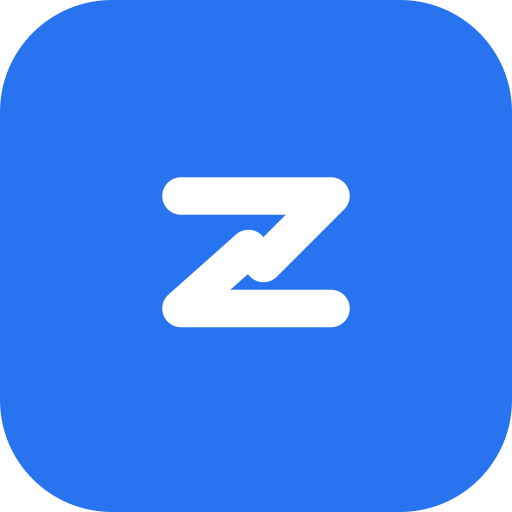
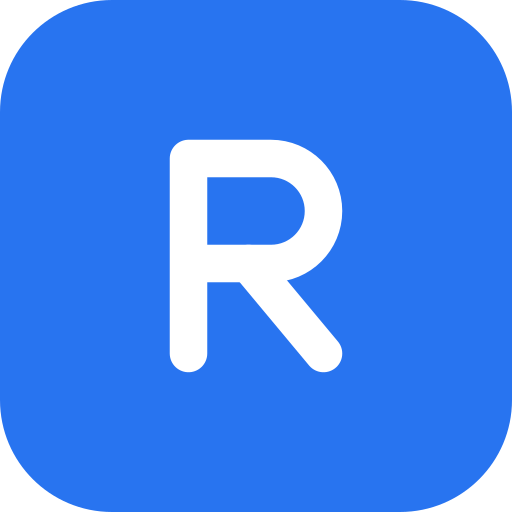
Rebrand store from PhoneZlab to Rushovis

Changed region(s): [[0.3125, 0.25, 0.6875, 0.75]]

diff --git a/src/utils/seo.ts b/src/utils/seo.ts
@@ -17,7 +17,7 @@ export function getSiteUrl(): string {
     return `https://${shopifyDomain}`;
   }
   
-  return 'https://phonezlab.com';
+  return 'https://rushovis.com';
 }
 
 interface MetadataOptions {
@@ -37,10 +37,10 @@ interface MetadataOptions {
 export function generatePageMetadata(options: MetadataOptions): Metadata {
   const siteUrl = getSiteUrl();
   const absoluteUrl = `${siteUrl}${options.canonicalPath}`;
-  const defaultTitle = "PhoneZlab | Luxury Accessories";
+  const defaultTitle = "Rushovis | Luxury Accessories";
   const defaultDescription = "Premium luxury accessories and cases for the modern elite.";
   
-  const title = options.title ? `${options.title} | PhoneZlab` : defaultTitle;
+  const title = options.title ? `${options.title} | Rushovis` : defaultTitle;
   const description = options.description || defaultDescription;
   
   const meta: Metadata = {
@@ -52,7 +52,7 @@ export function generatePageMetadata(options: MetadataOptions): Metadata {
       "iphone accessories",
       "luxury phone covers",
       "premium phone skins",
-      "phonezlab"
+      "rushovis"
     ],
     alternates: {
       canonical: absoluteUrl,
@@ -63,7 +63,7 @@ export function generatePageMetadata(options: MetadataOptions): Metadata {
       description,
       url: absoluteUrl,
       type: (options.ogType === 'article' ? 'article' : 'website'),
-      siteName: 'PhoneZlab',
+      siteName: 'Rushovis',
       images: options.imageUrl 
         ? [
             {
@@ -76,7 +76,7 @@ export function generatePageMetadata(options: MetadataOptions): Metadata {
         : [
             {
               url: `${siteUrl}/og-image.png`,
-              alt: 'PhoneZlab Luxury Accessories',
+              alt: 'Rushovis Luxury Accessories',
               width: 1200,
               height: 630,
             }
@@ -102,17 +102,17 @@ export function getOrganizationSchema() {
     "@context": "https://schema.org",
     "@type": "Organization",
     "@id": `${siteUrl}/#organization`,
-    "name": "PhoneZlab",
+    "name": "Rushovis",
     "url": siteUrl,
     "logo": {
       "@type": "ImageObject",
       "url": `${siteUrl}/logo.png`,
-      "caption": "PhoneZlab Logo"
+      "caption": "Rushovis Logo"
     },
     "sameAs": [
-      "https://facebook.com/phonezlab",
-      "https://instagram.com/phonezlab",
-      "https://twitter.com/phonezlab"
+      "https://facebook.com/rushovis",
+      "https://instagram.com/rushovis",
+      "https://twitter.com/rushovis"
     ]
   };
 }
@@ -127,7 +127,7 @@ export function getWebsiteSchema() {
     "@type": "WebSite",
     "@id": `${siteUrl}/#website`,
     "url": siteUrl,
-    "name": "PhoneZlab",
+    "name": "Rushovis",
     "publisher": {
       "@id": `${siteUrl}/#organization`
     },
@@ -173,7 +173,7 @@ export function getProductSchema(product: ShopifyProduct, reviewsData?: JudgemeR
   const variants = product.variants?.edges?.map(edge => edge.node) || [];
   const mainVariant = variants.find(v => v.availableForSale) || variants[0];
   const images = product.images?.edges?.map(edge => edge.node.url) || [];
-  const brandName = product.vendor || 'PhoneZlab';
+  const brandName = product.vendor || 'Rushovis';
 
   const lowPrice = variants.length > 0 
     ? Math.min(...variants.map(v => parseFloat(v.price.amount) || 0)) 
@@ -187,7 +187,7 @@ export function getProductSchema(product: ShopifyProduct, reviewsData?: JudgemeR
     "@type": "Product",
     "@id": `${siteUrl}/products/${product.handle}#product`,
     "name": product.title,
-    "description": product.description || `Buy ${product.title} from PhoneZlab.`,
+    "description": product.description || `Buy ${product.title} from Rushovis.`,
     "image": images.length > 0 ? images : [product.featuredImage?.url || `${siteUrl}/og-image.png`],
     "sku": mainVariant?.sku || product.id,
     "brand": {

diff --git a/src/components/ProductDetailsClient.tsx b/src/components/ProductDetailsClient.tsx
@@ -343,7 +343,7 @@ export function ProductDetailsClient({ product, relatedProducts = [], initialRev
                         
                         {/* WhatsApp Share */}
                         <a
-                          href={`https://api.whatsapp.com/send?text=${encodeURIComponent(`Check out this ${product.title} on PhoneZlab: ` + (typeof window !== "undefined" ? window.location.href : ""))}`}
+                          href={`https://api.whatsapp.com/send?text=${encodeURIComponent(`Check out this ${product.title} on Rushovis: ` + (typeof window !== "undefined" ? window.location.href : ""))}`}
                           target="_blank"
                           rel="noopener noreferrer"
                           onClick={() => setShareOpen(false)}
@@ -357,7 +357,7 @@ export function ProductDetailsClient({ product, relatedProducts = [], initialRev
                         
                         {/* Twitter / X Share */}
                         <a
-                          href={`https://twitter.com/intent/tweet?text=${encodeURIComponent(`Check out this ${product.title} on PhoneZlab!`)}&url=${encodeURIComponent(typeof window !== "undefined" ? window.location.href : "")}`}
+                          href={`https://twitter.com/intent/tweet?text=${encodeURIComponent(`Check out this ${product.title} on Rushovis!`)}&url=${encodeURIComponent(typeof window !== "undefined" ? window.location.href : "")}`}
                           target="_blank"
                           rel="noopener noreferrer"
                           onClick={() => setShareOpen(false)}
@@ -448,7 +448,7 @@ export function ProductDetailsClient({ product, relatedProducts = [], initialRev
             {/* Title / Header */}
             <div>
               <span className="text-[#878787] text-xs font-semibold uppercase tracking-wider">
-                {product.vendor || "PhoneZlab"}{product.productType ? ` • ${product.productType}` : ""}
+                {product.vendor || "Rushovis"}{product.productType ? ` • ${product.productType}` : ""}
               </span>
               <h1 className="text-xl md:text-2xl font-medium text-gray-900 mt-1 leading-snug">
                 {product.title}

diff --git a/src/app/login/page.tsx b/src/app/login/page.tsx
@@ -42,10 +42,10 @@ export default function LoginPage() {
     <main className="min-h-[85vh] bg-[#f1f3f6] flex items-center justify-center p-4 md:p-8 relative">
       <div className="bg-white rounded-lg shadow-lg overflow-hidden w-full max-w-4xl flex flex-col md:flex-row min-h-[500px]">
         
-        {/* Left Panel: Brand info / values (Flipkart/PhoneZlap Style) */}
+        {/* Left Panel: Brand info / values (Flipkart/Rushovis Style) */}
         <div className="w-full md:w-2/5 bg-[#2874f0] p-8 text-white flex flex-col justify-between relative">
           <div>
-            <h2 className="text-3xl font-black italic tracking-tight mb-3">PhoneZlap</h2>
+            <h2 className="text-3xl font-black italic tracking-tight mb-3">Rushovis</h2>
             <p className="text-white/80 text-sm font-medium leading-relaxed">
               Unlock a world of premium tech accessories, customized case overlays, and exclusive deals.
             </p>
@@ -73,7 +73,7 @@ export default function LoginPage() {
           </div>
 
           <div className="text-xs text-white/50">
-            © {new Date().getFullYear()} PhoneZlap. All rights reserved.
+            © {new Date().getFullYear()} Rushovis. All rights reserved.
           </div>
           
           {/* Background circles for premium styling */}
@@ -119,7 +119,7 @@ export default function LoginPage() {
           </div>
 
           <p className="text-xs text-gray-400 text-center md:text-left leading-relaxed mt-6">
-            By continuing, you agree to PhoneZlap's{" "}
+            By continuing, you agree to Rushovis's{" "}
             <Link href="/terms" className="text-[#2874f0] underline hover:text-blue-700">Terms of Use</Link> and{" "}
             <Link href="/privacy" className="text-[#2874f0] underline hover:text-blue-700">Privacy Policy</Link>.
           </p>

diff --git a/src/features/pwa/PWAInstallPrompt.tsx b/src/features/pwa/PWAInstallPrompt.tsx
@@ -126,7 +126,7 @@ export function PWAInstallPrompt() {
               <div className="relative h-12 w-12 flex-shrink-0 rounded-xl overflow-hidden shadow-md bg-white p-1 border border-neutral-100 dark:border-neutral-800">
                 <Image
                   src="/icon-192.png"
-                  alt="PhoneZlab App Icon"
+                  alt="Rushovis App Icon"
                   width={40}
                   height={40}
                   className="h-full w-full object-contain"
@@ -135,7 +135,7 @@ export function PWAInstallPrompt() {
               </div>
               <div className="min-w-0">
                 <h4 className="text-sm font-semibold text-neutral-900 dark:text-white truncate">
-                  Install PhoneZlab App {isSimulated && <span className="text-[10px] text-yellow-500 font-mono ml-1">(Demo)</span>}
+                  Install Rushovis App {isSimulated && <span className="text-[10px] text-yellow-500 font-mono ml-1">(Demo)</span>}
                 </h4>
                 <p className="text-xs text-neutral-500 dark:text-neutral-400 truncate">
                   Add to home screen for absolute ease.

diff --git a/src/features/layout/Navbar.tsx b/src/features/layout/Navbar.tsx
@@ -199,11 +199,11 @@ export function Navbar() {
           <Link href="/" className="flex items-center gap-3 select-none group">
             <div className="w-8.5 h-8.5 rounded-lg bg-[#2874f0] flex items-center justify-center flex-shrink-0 transition-transform group-hover:scale-[1.03]">
               <svg viewBox="0 0 24 24" fill="none" className="w-5 h-5 text-white stroke-white" strokeWidth="2.5" strokeLinecap="round" strokeLinejoin="round">
-                <path d="M7 8h10l-4.5 4.5" />
-                <path d="M11.5 11.5l-4.5 4H17" />
+                <path d="M7.5 18.5v-13h5.5a3.5 3.5 0 0 1 0 7h-5.5" />
+                <path d="M11.5 12.5l5 6" />
               </svg>
             </div>
-            <span className="text-slate-900 dark:text-white text-xl font-bold tracking-tight">PhoneZlab</span>
+            <span className="text-slate-900 dark:text-white text-xl font-bold tracking-tight">Rushovis</span>
           </Link>
  
           {/* Mobile Right Actions */}

diff --git a/src/app/faq/page.tsx b/src/app/faq/page.tsx
@@ -35,7 +35,7 @@ export default function FaqPage() {
         {/* Help Center Header */}
         <div className="text-center space-y-3 mb-12">
           <span className="text-xs font-bold uppercase tracking-widest text-[#2874f0]">
-            PhoneZlab Help Center
+            Rushovis Help Center
           </span>
           <h1 className="text-3xl md:text-5xl font-extrabold text-gray-900 tracking-tight">
             Frequently Asked Questions
@@ -107,7 +107,7 @@ export default function FaqPage() {
             </p>
           </div>
           <a
-            href="mailto:support@phonezlab.com"
+            href="mailto:support@rushovis.com"
             className="inline-flex items-center gap-2 bg-[#2874f0] hover:bg-[#1a5ec7] text-white px-6 py-3 rounded-lg text-sm font-semibold transition-colors focus:outline-none focus:ring-2 focus:ring-[#2874f0] focus:ring-offset-2 cursor-pointer shadow-sm"
           >
             <Mail className="w-4 h-4" />

diff --git a/src/features/layout/Footer.tsx b/src/features/layout/Footer.tsx
@@ -8,7 +8,7 @@ export function Footer() {
         {/* Brand Info Column */}
         <div className="lg:col-span-2 space-y-4">
           <Link href="/" className="text-xl font-bold tracking-tight text-gray-900 hover:text-[#2874f0] transition-colors duration-150">
-            PhoneZlab
+            Rushovis
           </Link>
           <p className="text-sm text-gray-500 max-w-sm leading-relaxed">
             Premium accessories built for modern devices.
@@ -87,7 +87,7 @@ export function Footer() {
       <div className="max-w-7xl mx-auto px-6 pt-8 border-t border-gray-100 flex flex-col md:flex-row items-center justify-between gap-6">
         {/* Copyright info */}
         <div className="text-xs text-gray-400">
-          &copy; 2026 PhoneZlab. All rights reserved.
+          &copy; 2026 Rushovis. All rights reserved.
         </div>
 
         {/* Trust Badges */}

diff --git a/src/features/shop/FeaturedProducts.tsx b/src/features/shop/FeaturedProducts.tsx
@@ -20,11 +20,11 @@ export function FeaturedProducts() {
 
         if (typeof window !== "undefined") {
           try {
-            const searches = localStorage.getItem("phonezlab_recent_searches");
+            const searches = localStorage.getItem("rushovis_recent_searches") || localStorage.getItem("phonezlab_recent_searches");
             if (searches) {
               recentSearches = JSON.parse(searches);
             }
-            const viewed = localStorage.getItem("phonezlab_recently_viewed");
+            const viewed = localStorage.getItem("rushovis_recently_viewed") || localStorage.getItem("phonezlab_recently_viewed");
             if (viewed) {
               recentlyViewed = JSON.parse(viewed);
             }

diff --git a/src/app/products/[handle]/page.tsx b/src/app/products/[handle]/page.tsx
@@ -22,13 +22,13 @@ export async function generateMetadata({ params }: Props): Promise<Metadata> {
 
   if (!product) {
     return {
-      title: "Product Not Found | PhoneZlab",
+      title: "Product Not Found | Rushovis",
     };
   }
 
   return generatePageMetadata({
     title: product.seo.title || product.title,
-    description: product.seo.description || product.description || `Buy ${product.title} from PhoneZlab.`,
+    description: product.seo.description || product.description || `Buy ${product.title} from Rushovis.`,
     canonicalPath: `/products/${product.handle}`,
     imageUrl: product.featuredImage?.url || undefined,
     imageAlt: product.featuredImage?.altText || product.title,

diff --git a/src/app/layout.tsx b/src/app/layout.tsx
@@ -16,15 +16,15 @@ const inter = Inter({
 export const metadata: Metadata = {
   metadataBase: new URL(getSiteUrl()),
   title: {
-    default: "PhoneZlab | Luxury Accessories",
-    template: "%s | PhoneZlab",
+    default: "Rushovis | Luxury Accessories",
+    template: "%s | Rushovis",
   },
   description: "Premium luxury accessories and cases for the modern elite.",
   manifest: "/manifest.json",
   appleWebApp: {
     capable: true,
     statusBarStyle: "default",
-    title: "PhoneZlab",
+    title: "Rushovis",
   },
   icons: {
     apple: "/icon-192.png",

diff --git a/src/config/offers.ts b/src/config/offers.ts
@@ -14,7 +14,7 @@ export function parseCouponsFromProduct(product: any): CouponOffer[] {
   const coupons: CouponOffer[] = [];
   if (!product) return coupons;
 
-  // 1. Parse from tags (e.g. "coupon:PHONEZLAB10 | 10% OFF | 10% off up to ₹200 | 999")
+  // 1. Parse from tags (e.g. "coupon:RUSHOVIS10 | 10% OFF | 10% off up to ₹200 | 999")
   if (product.tags && Array.isArray(product.tags)) {
     product.tags.forEach((tag: string) => {
       if (tag.startsWith("coupon:")) {

diff --git a/src/features/shop/faqData.ts b/src/features/shop/faqData.ts
@@ -90,6 +90,6 @@ export const faqData: FaqItem[] = [
     id: "support-hours",
     category: "Contact",
     question: "What are your customer support hours?",
-    answer: "Our support team is available Monday through Saturday from 9 AM to 6 PM IST. You can reach out via email at support@phonezlab.com."
+    answer: "Our support team is available Monday through Saturday from 9 AM to 6 PM IST. You can reach out via email at support@rushovis.com."
   }
 ];
